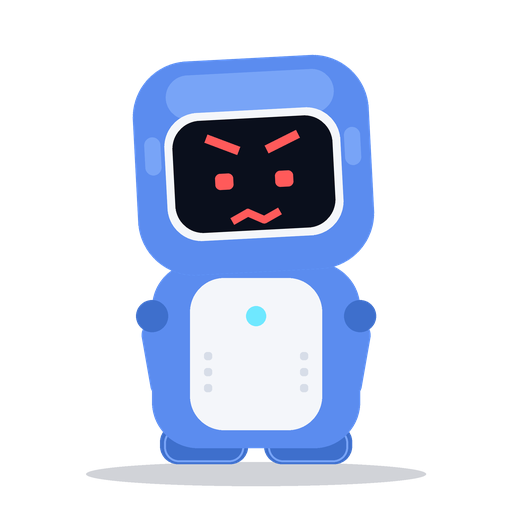
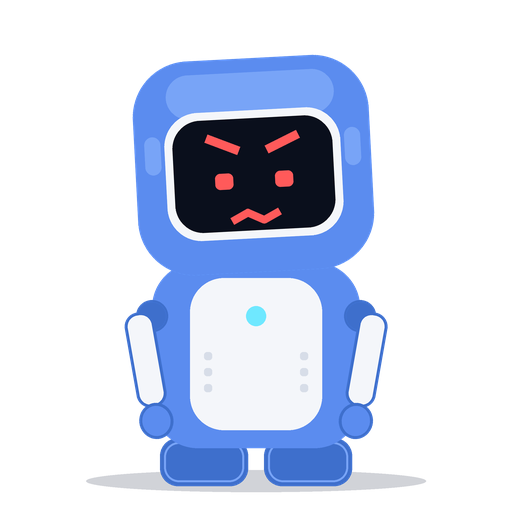
feat: longer hands + legs to the bottom — sprite & CAD
- sprite: robot-glove arms (white forearm, outlined) drawn in front, mitten
  hands, feet pads seated on the ground line with visible leg beams
- sprite: happy pose back to hanging arms; leg/foot geometry reworked
- CAD: arm_hang 34->38, leg_h 24->28; assembly re-exported

Changed region(s): [[0.1562, 0.5938, 0.8438, 0.9688]]

diff --git a/tools/gen_robot_sprites.py b/tools/gen_robot_sprites.py
@@ -55,39 +55,17 @@ def robot_sprite(eyes_fn, head_tilt=0.0, arm_phase=0, extras=None):
 
     cx = W // 2
     # ground shadow
-    d.ellipse([cx - 170*S, 462*S, cx + 170*S, 486*S], fill=SHADOW)
+    d.ellipse([cx - 170*S, 470*S, cx + 170*S, 492*S], fill=SHADOW)
 
-    # ---------------- legs / feet ----------------
+    # ---------------- legs: visible from under the torso down to the ground ----------------
     for sx in (-52, 52):
         fx = cx + sx * S
-        rrect(d, [fx - 44*S, 424*S, fx + 44*S, 464*S], 18*S, fill=BLUE_D)
-        rrect(d, [fx - 16*S, 396*S, fx + 16*S, 430*S], 12*S, fill=BLUE)
-        d.rounded_rectangle([fx - 40*S, 428*S, fx + 40*S, 462*S], radius=15*S,
+        # beam peeking below the torso wall (torso bottom = 448)
+        rrect(d, [fx - 20*S, 436*S, fx + 20*S, 478*S], 14*S, fill=BLUE_D)
+        # rounded foot pad sitting on the ground line
+        rrect(d, [fx - 44*S, 438*S, fx + 44*S, 486*S], 18*S, fill=BLUE_D)
+        d.rounded_rectangle([fx - 40*S, 442*S, fx + 40*S, 482*S], radius=15*S,
                             outline=BLUE_L, width=max(1, 2*S))
-
-    # ---------------- arms (behind torso) ----------------
-    def arm(sx, raise_deg):
-        pivot = (cx + sx * 96 * S, 320 * S)
-        pad = Image.new("RGBA", (W, W), (0, 0, 0, 0))
-        pd = ImageDraw.Draw(pad)
-        pd.ellipse([pivot[0] - 13*S, pivot[1] - 13*S, pivot[0] + 13*S, pivot[1] + 13*S],
-                   fill=BLUE_D)
-        # paddle hanging down-left/right in local frame
-        px = pivot[0] + sx * 6 * S
-        rrect(pd, [px - 15*S, pivot[1], px + 15*S, pivot[1] + 78*S], 14*S, fill=BLUE)
-        pad = rot(pad, -raise_deg * (1 if sx > 0 else -1), pivot)
-        img.alpha_composite(pad)
-
-    if arm_phase == 0:
-        arm(-1, 10); arm(1, 10)
-    elif arm_phase == 1:
-        arm(-1, 95); arm(1, 95)
-    elif arm_phase == -1:
-        arm(-1, 0); arm(1, 0)
-    elif arm_phase == 2:
-        arm(-1, 70); arm(1, 100)
-    elif arm_phase == 3:
-        arm(-1, 12); arm(1, 130)
 
     # ---------------- torso ----------------
     rrect(d, [cx - 104*S, 262*S, cx + 104*S, 448*S], 46*S, fill=BLUE)
@@ -101,6 +79,35 @@ def robot_sprite(eyes_fn, head_tilt=0.0, arm_phase=0, extras=None):
     # shoulder caps
     for sx in (-104, 104):
         d.ellipse([cx + sx*S - 16*S, 300*S, cx + sx*S + 16*S, 332*S], fill=BLUE_D)
+
+    # ---------------- arms (in front of the torso, robot-glove look) ----------------
+    def arm(sx, raise_deg):
+        pivot = (cx + sx * 104 * S, 316 * S)
+        pad = Image.new("RGBA", (W, W), (0, 0, 0, 0))
+        pd = ImageDraw.Draw(pad)
+        pd.ellipse([pivot[0] - 14*S, pivot[1] - 14*S, pivot[0] + 14*S, pivot[1] + 14*S],
+                   fill=BLUE_D)
+        # white forearm + mitten hand, outlined so it reads against the blue body
+        px = pivot[0] + sx * 14 * S
+        rrect(pd, [px - 15*S, pivot[1] - 6*S, px + 15*S, pivot[1] + 90*S], 14*S,
+              fill=WHITE, outline=BLUE_D, width=max(1, 3*S))
+        # mitten ball at the end
+        hy_end = pivot[1] + 108 * S
+        pd.ellipse([px - 17*S, hy_end - 22*S, px + 17*S, hy_end + 14*S],
+                   fill=BLUE, outline=BLUE_D, width=max(1, 3*S))
+        pad = rot(pad, -raise_deg * (1 if sx > 0 else -1), pivot)
+        img.alpha_composite(pad)
+
+    if arm_phase == 0:
+        arm(-1, 10); arm(1, 10)
+    elif arm_phase == 1:
+        arm(-1, 95); arm(1, 95)
+    elif arm_phase == -1:
+        arm(-1, 0); arm(1, 0)
+    elif arm_phase == 2:
+        arm(-1, 70); arm(1, 100)
+    elif arm_phase == 3:
+        arm(-1, 12); arm(1, 130)
 
     # ---------------- head (own layer so it can tilt) ----------------
     head = Image.new("RGBA", (W, W), (0, 0, 0, 0))
@@ -251,7 +258,7 @@ def e_annoyed(d, hx, hy):
 
 
 EMOTIONS = {
-    "happy":      (e_happy,      0.0,   1),
+    "happy":      (e_happy,      0.0,   0),
     "normal":     (e_normal,     0.0,   0),
     "sleepy":     (e_sleepy,     -6.0,  -1),
     "surprised":  (e_surprised,  0.0,   0),

diff --git a/cad/companion_robot.py b/cad/companion_robot.py
@@ -91,7 +91,7 @@ P = {
     # Arms — TWO mirrored shoulder servos, so the arms can swing in OPPOSITE
     # phase (one forward while the other goes back) exactly like walking.
     "shoulder_z":    30.0,    # shoulder pivot height in the torso
-    "arm_hang":      34.0,    # arm paddle drop below the shoulder pivot
+    "arm_hang":      38.0,    # arm paddle drop below the shoulder pivot (longer hands)
     "arm_t":         4.0,     # arm paddle thickness (along x)
     "arm_pw":        13.0,    # arm paddle width (along y)
     "boss_r":        6.5,     # pivot boss radius on arm/leg plates
@@ -100,7 +100,7 @@ P = {
     # (+/-35 deg) by a printed skirt slot + pin on each leg. HARD stops, not
     # firmware trust: the pin physically hits the skirt twice per stride.
     "hip_z":         8.6,     # hip pivot height in the torso
-    "leg_h":         24.0,    # beam drop below the hip pivot
+    "leg_h":         28.0,    # beam drop below the hip pivot
     "leg_t":         4.0,     # leg plate thickness (along x)
     "leg_w":         12.0,    # leg beam width (along y)
     "foot_h":        6.0,
